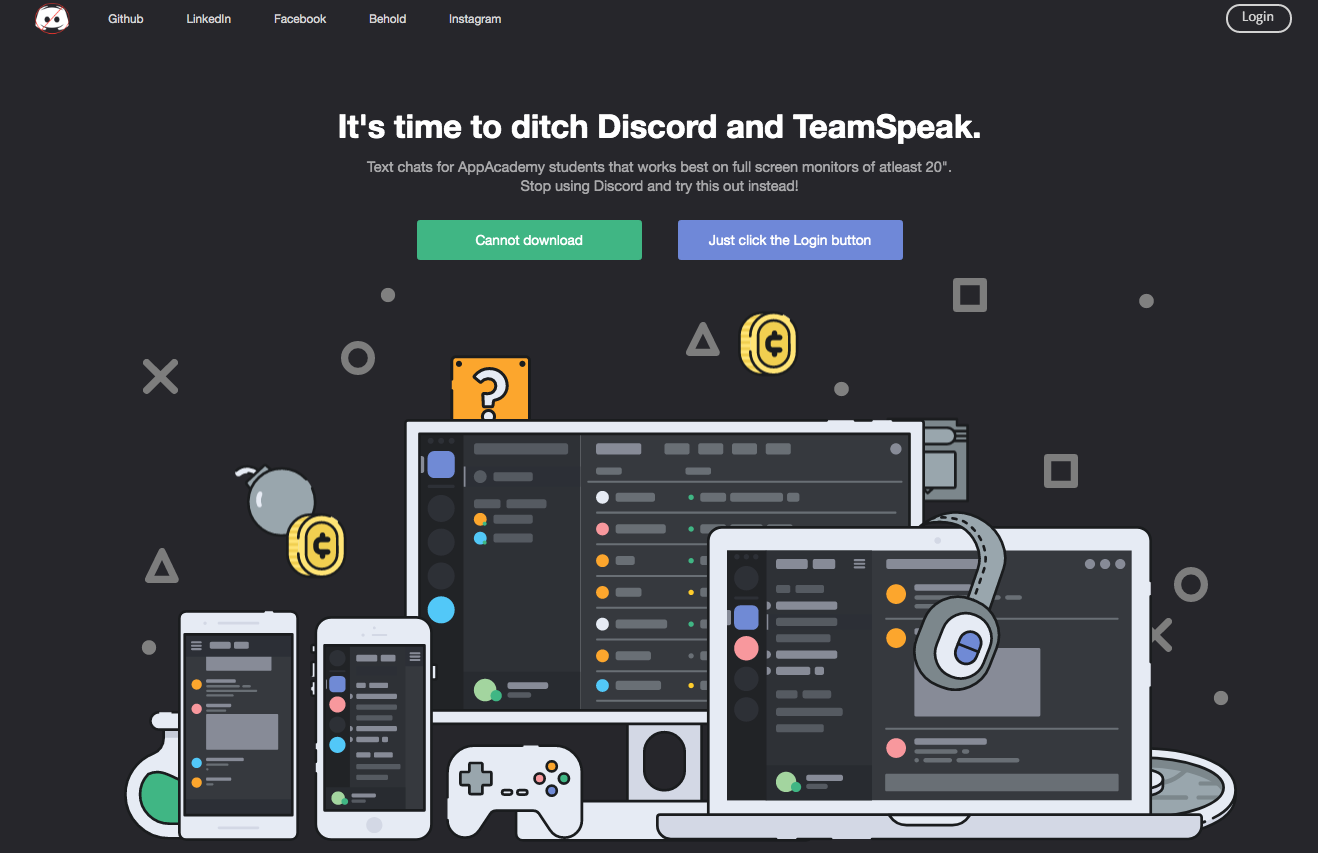
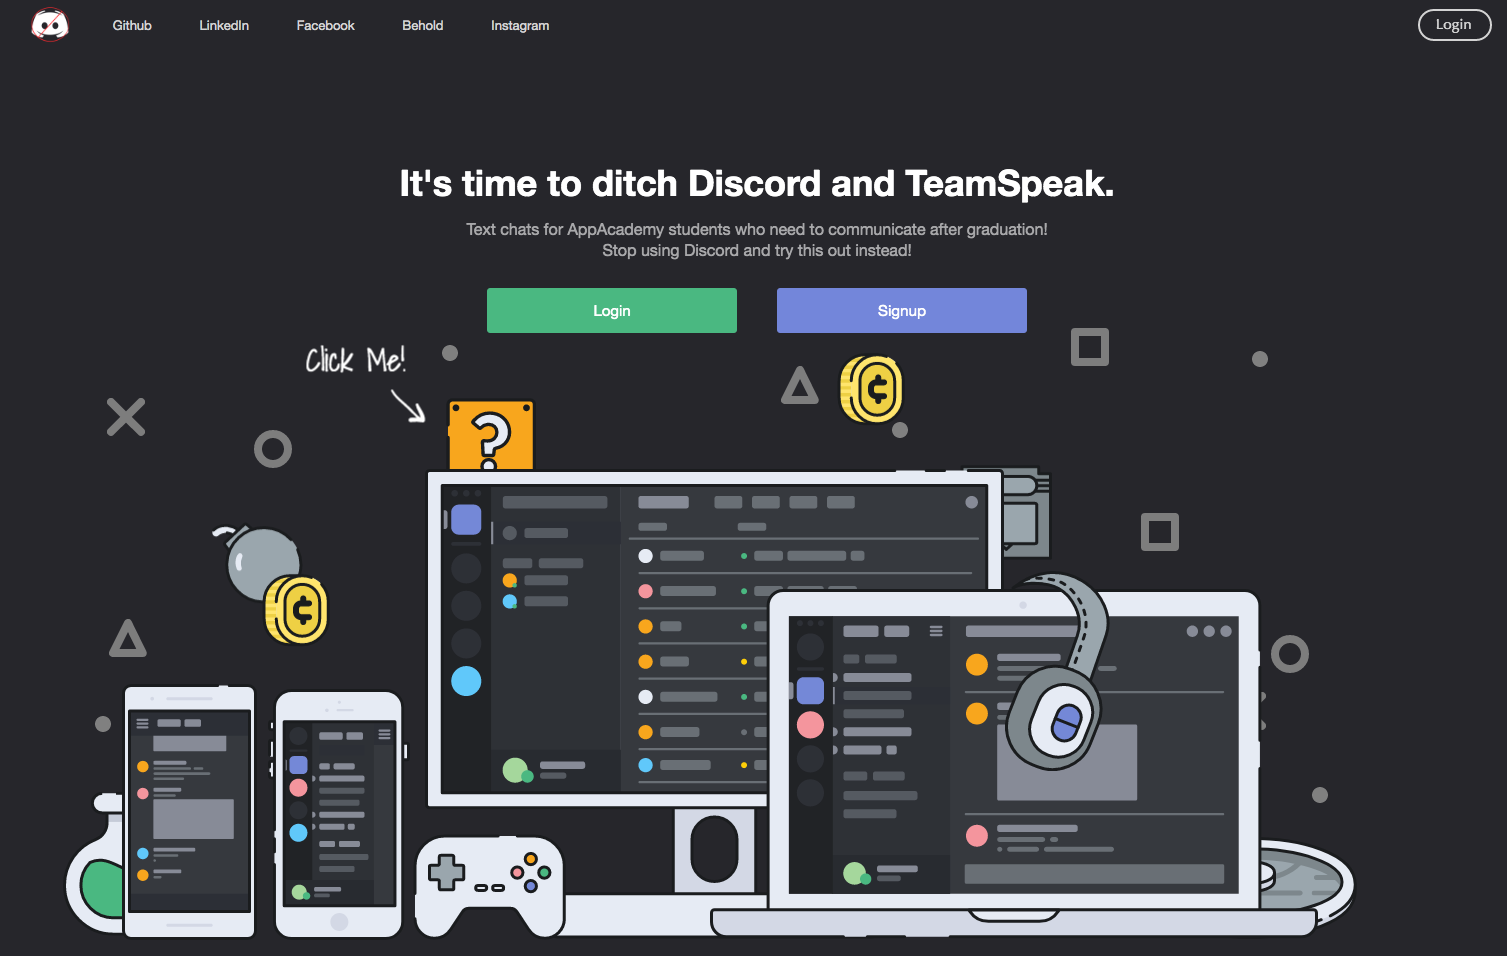
Added more skills, fixed resume button, fixed positioning

diff --git a/index.html b/index.html
@@ -36,8 +36,11 @@
 								<h1>Hi. I'm <strong>Edward Kim</strong>.</h1>
 							</header>
 							<p>Software engineer with experience in <strong>React, Redux, Ruby on Rails, Javascript, and Python.</strong> Graduate from Cornell University with a BS in Mechanical Engineering.</p>
+
 							
 							<a href="#work" class="button large scrolly">Learn about what I do</a>
+
+							<a href="images/Edward_Kim_Resume.pdf" target="_blank" class="button large scrolly">View my Resume</a>
 						</div>
 					</div>
 				</div>
@@ -56,6 +59,12 @@
 								<i class="devicon-react-original colored skills"></i>
 								<h3>React / Redux</h3>
 								<!-- <p>Ornare nulla proin odio consequat sapien vestibulum ipsum primis sed amet consequat lorem dolore.</p> -->
+							</section>
+						</div>
+						<div class="col-4 col-6-medium col-12-small">
+							<section class="box style1">
+								<i class="devicon-ruby-plain colored skills"></i>
+								<h3>Ruby</h3>
 							</section>
 						</div>
 						<div class="col-4 col-6-medium col-12-small">
@@ -80,6 +89,24 @@
 						</div>
 						<div class="col-4 col-6-medium col-12-small">
 							<section class="box style1">
+								<i class="devicon-html5-plain colored skills"></i>
+								<h3>HTML5</h3>
+							</section>
+						</div>
+						<div class="col-4 col-6-medium col-12-small">
+							<section class="box style1">
+								<i class="devicon-css3-plain colored skills"></i>
+								<h3>CSS3</h3>
+							</section>
+						</div>
+						<div class="col-4 col-6-medium col-12-small">
+							<section class="box style1">
+								<i class="devicon-d3js-plain colored skills"></i>
+								<h3>D3</h3>
+							</section>
+						</div>
+						<div class="col-4 col-6-medium col-12-small">
+							<section class="box style1">
 								<i class="devicon-python-plain colored skills"></i>
 								<h3>Python</h3>
 							</section>
@@ -99,7 +126,7 @@
 						<h2>Here’s some stuff I made recently.</h2>
 						<!-- <p>Proin odio consequat  sapien vestibulum consequat lorem dolore feugiat.</p> -->
 					</header>
-					<div class="row">
+					<div class="row row-force-class">
 						<div class="col-4 col-6-medium col-12-small">
 							<article class="box style2">
 								<a href="http://notdiscord-aa.herokuapp.com/" target="_" class="image featured"><img class="projectimg" src="images/notDiscord.png" alt="" /></a>
@@ -116,13 +143,13 @@
 								<a href="https://github.com/esunwookim619/bestClashPlayers" target="_">Code</a>
 							</article>
 						</div>
-						<div class="col-4 col-6-medium col-12-small">
+						<!-- <div class="col-4 col-6-medium col-12-small">
 							<article class="box style2">
 								<a href="#" class="image featured"><img class="projectimg" src="images/pic02.jpg" alt="" /></a>
 								<h3><a href="#">More projects coming soon!</a></h3>
 								<p></br></br></br></br></br></br></br></p>
 							</article>
-						</div>
+						</div> -->
 					</div>
 					<footer>
 						<a href="#contact" class="button large scrolly">Get in touch with me</a>
@@ -136,15 +163,14 @@
 					<header>
 						<h2>Contact me</h2>
 						<p>Email: esunwookim@gmail.com</p>
-
-						<a href="images/Edward_Kim_Resume.pdf">View my Resume</a>
+						
+						<br>
+						
 						<h3>or</h3>
-						<h2>Send me a message</h2>
-						
-						
+						<!-- <h2>Send me a message</h2> -->	
 					</header>
 					<div class="row">
-						<div class="col-12">
+						<!-- <div class="col-12">
 							<form method="post" action="#">
 								<div class="row">
 									<div class="col-6 col-12-small">
@@ -167,7 +193,7 @@
 									</div>
 								</div>
 							</form>
-						</div>
+						</div> -->
 						<div class="col-12">
 							<hr />
 							<h3>Find me on ...</h3>
@@ -183,7 +209,7 @@
 					</div>
 					<footer>
 						<ul id="copyright">
-							<li>&copy; Untitled. All rights reserved.</li><li>Design: <a href="http://html5up.net">HTML5 UP</a></li>
+							<li>&copy; Edward Kim. All rights reserved.</li><li>Design: <a href="http://html5up.net">HTML5 UP</a></li>
 						</ul>
 					</footer>
 				</div>

diff --git a/assets/css/main.css b/assets/css/main.css
@@ -2451,3 +2451,8 @@ input, select, textarea {
 	.projectimg {
 		height: 200px;
 	}
+
+	.row-force-class {
+		display: flex;
+		justify-content: space-around;
+	}
